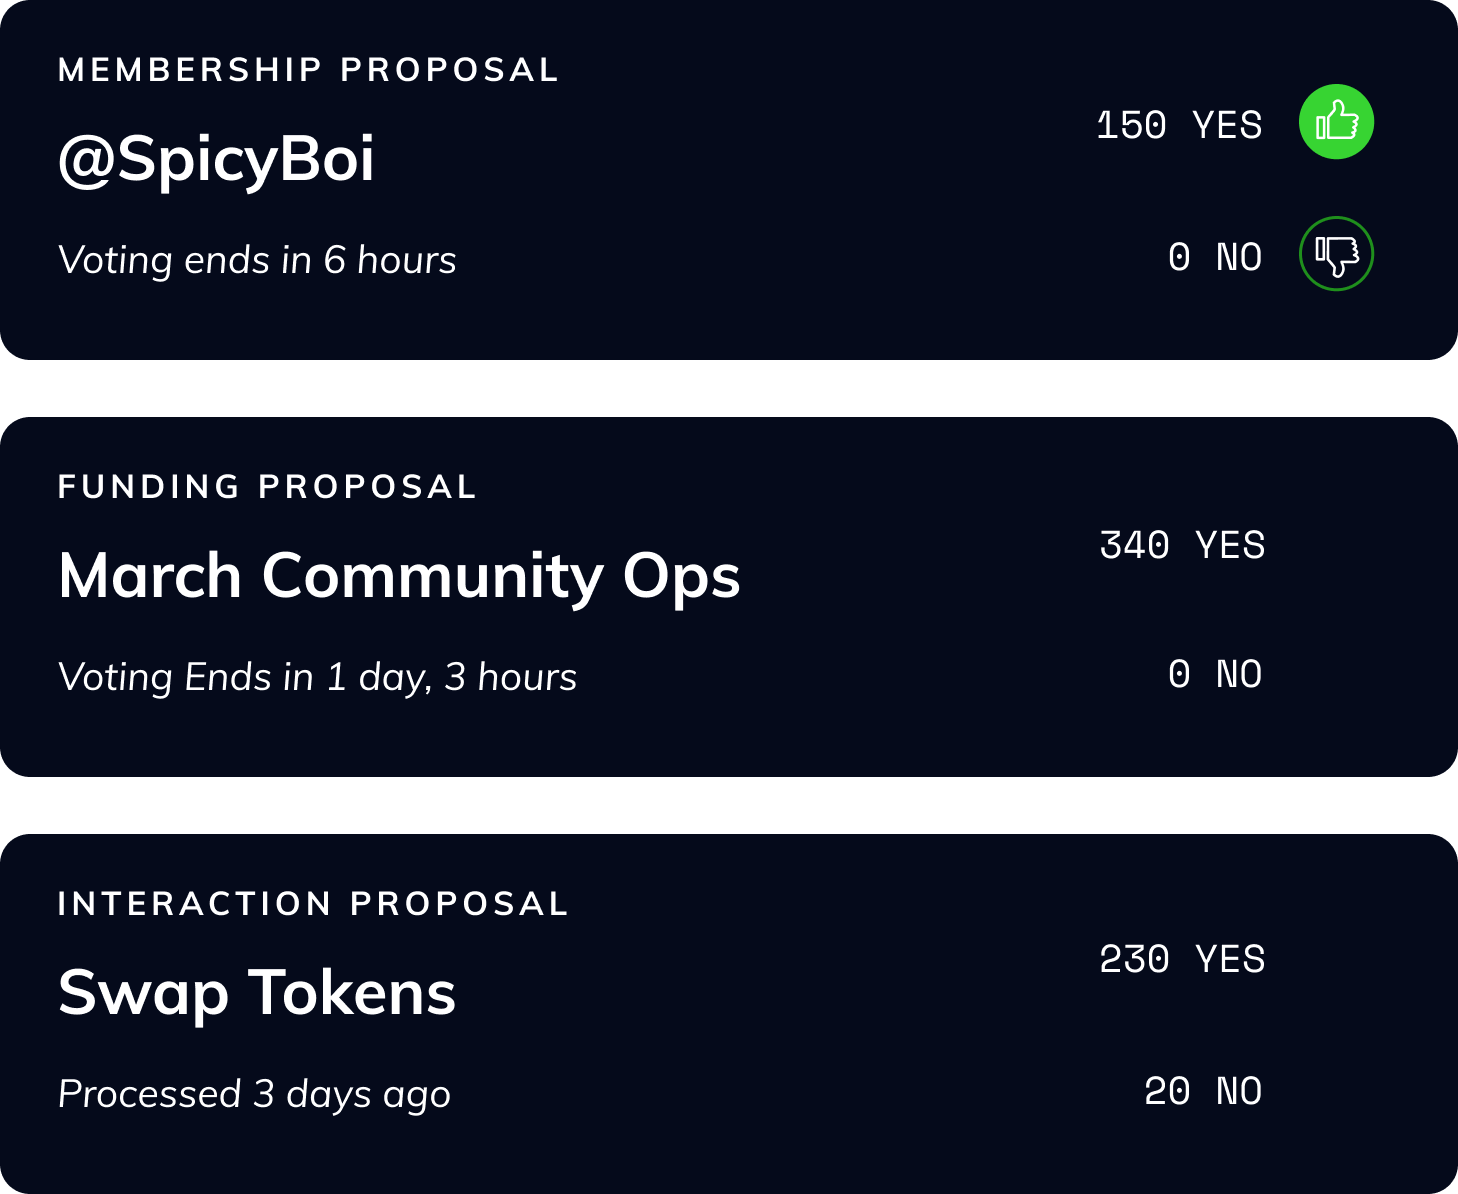
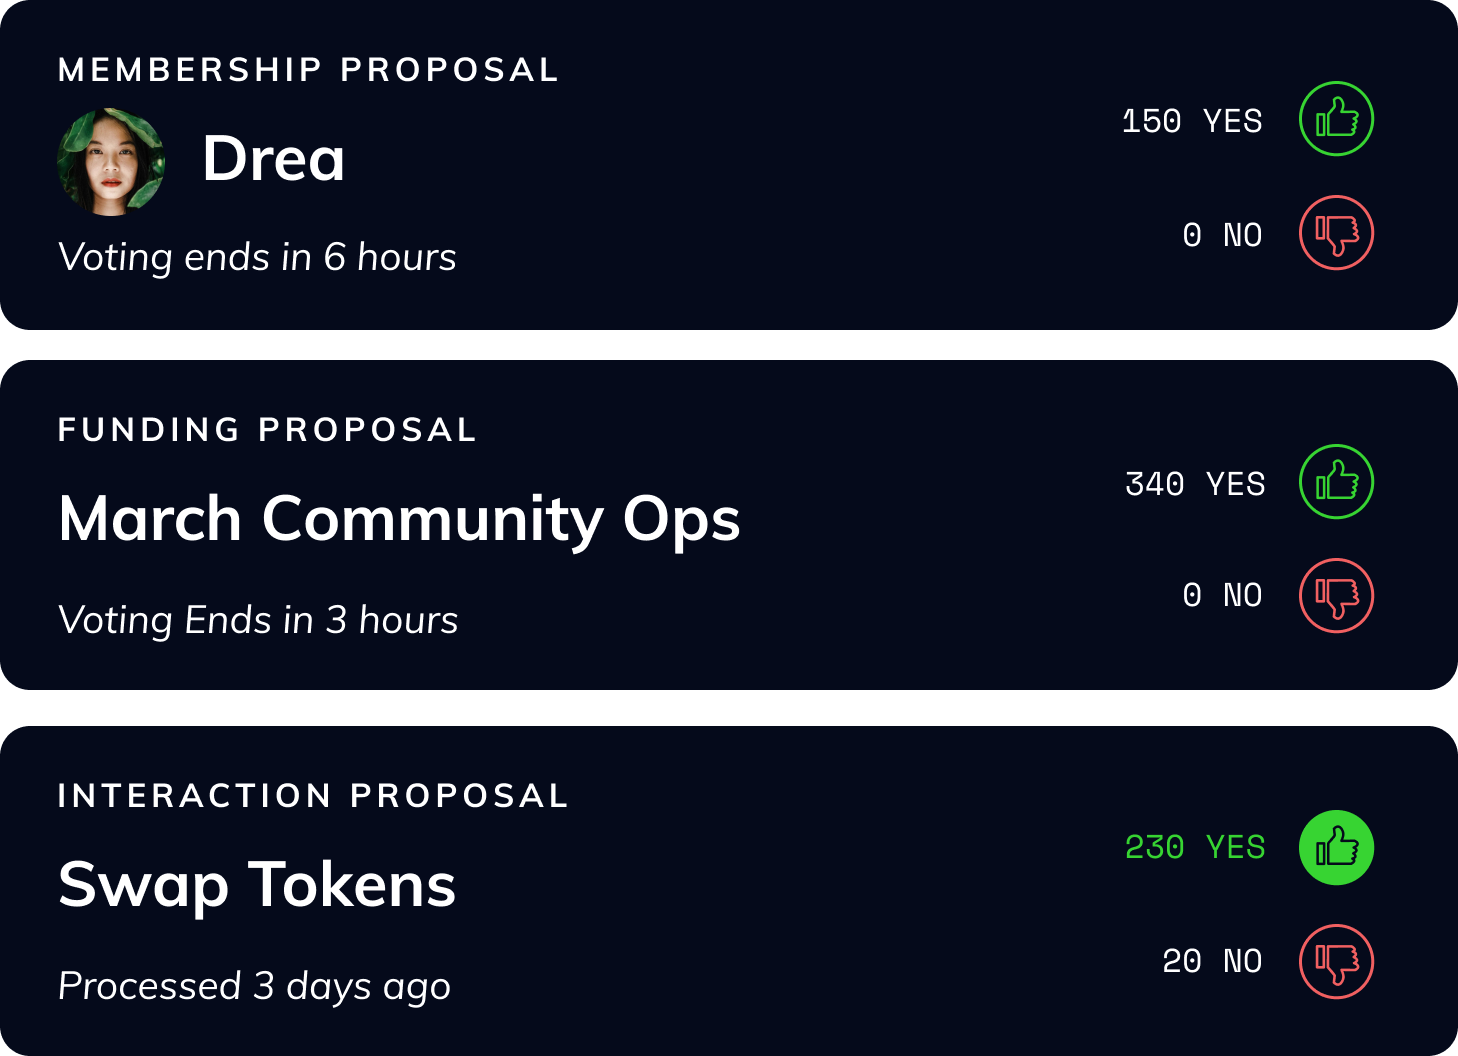
redux v1 ready to ship

diff --git a/src/views/Home/Home.js b/src/views/Home/Home.js
@@ -325,7 +325,10 @@ const Home = () => {
             <div className="Column--50">
               <img src={IconHA} alt="" width="40px" />
               <h5>Shared Treasury</h5>
-              <p>Community funds are held by the DAO itself.</p>
+              <p>
+                Community funds are held by the DAO itself and distributed
+                through Proposals.
+              </p>
             </div>
             <div className="Column--50">
               <img src={HowTreasury} alt="app screenshot of treasury" />
@@ -335,7 +338,11 @@ const Home = () => {
             <div className="Column--50">
               <img src={IconHB} alt="" width="40px" />
               <h5>Voting & Proposals</h5>
-              <p>Decisions are made by voting on community proposals.</p>
+              <p>
+                Proposals can be used for all types of decisions like
+                distributing funds, allocating shares, and even interacting with
+                other applications and communities.
+              </p>
             </div>
             <div className="Column--50">
               <img src={HowProposals} alt="app screenshot of proposals" />
@@ -344,9 +351,10 @@ const Home = () => {
           <div className="Row AlignCenter">
             <div className="Column--50">
               <img src={IconHC} alt="" width="40px" />
-              <h5>Dynamic Membership</h5>
+              <h5>Fluid Membership</h5>
               <p>
-                Members are added by community vote and may leave at any time.
+                Members are added and removed through proposals and may leave at
+                any time. Shares allow for truly distributed ownership.
               </p>
             </div>
             <div className="Column--50">
@@ -355,6 +363,7 @@ const Home = () => {
           </div>
         </div>
       </div>
+
       <div className="Block Communities">
         <div className="Block__Contents">
           <div className="Row">
